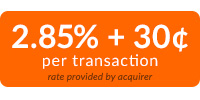
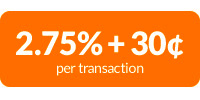
update presentation

diff --git a/css/style.css b/css/style.css
@@ -661,3 +661,7 @@ i.simplifyFormContainer mg.enable {
 .simplify-require-text {
 	padding-left: 10px;
 }
+
+.simplify-features-footnote {
+	font-size: 80%;
+}
